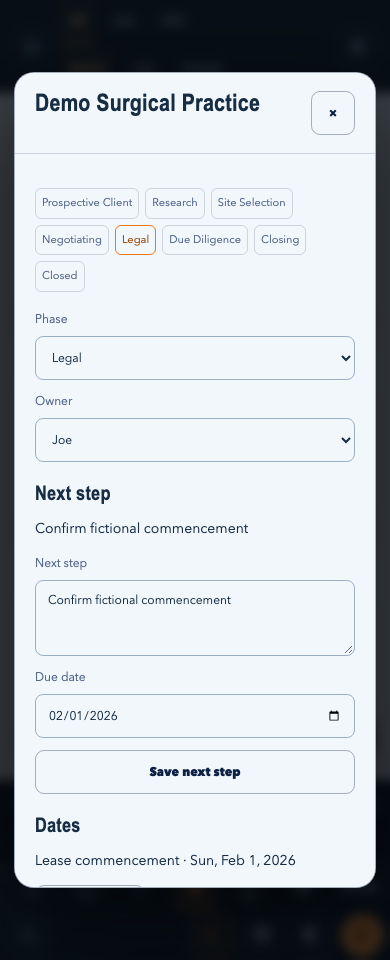
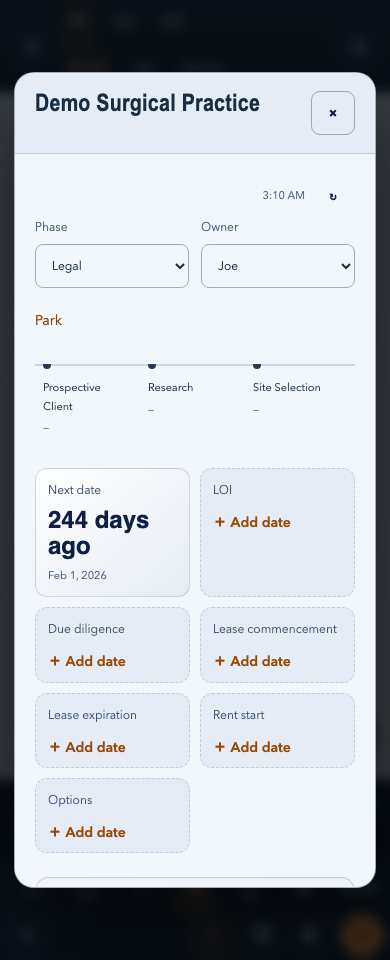
Clear refused deal date drafts and pair timeline theme surfaces

diff --git a/css/deal-timeline.css b/css/deal-timeline.css
@@ -10,7 +10,8 @@
 .phase-rail li span { border:0; padding:0; color:inherit; }
 .phase-rail time { display:block; color:var(--quiet); font-size:10px; margin-top:6px; }
 .critical-dates { display:grid; grid-template-columns:repeat(auto-fit,minmax(150px,1fr)); gap:10px; margin-bottom:24px; }
-.critical-date { min-width:0; padding:16px; border:1px solid #26354a; border-radius:12px; background:linear-gradient(140deg,#142338d9,#09121ee8); color:var(--text); display:flex; flex-direction:column; gap:8px; text-align:left; overflow-wrap:anywhere; transition:transform 180ms ease-out,border-color 180ms ease-out; }
+.critical-dates,.deal-timeline { --quiet:var(--muted); }
+.critical-date { min-width:0; padding:16px; border:1px solid var(--line); border-radius:12px; background:linear-gradient(140deg,var(--ground-2),var(--ground-0)); color:var(--text); display:flex; flex-direction:column; gap:8px; text-align:left; overflow-wrap:anywhere; transition:transform 180ms ease-out,border-color 180ms ease-out; }
 .critical-date:hover,.timeline-entry:hover { transform:translateY(-2px); border-color:#a66438; }
 .critical-date > span { color:var(--quiet); font-size:12px; }
 .critical-date strong { font-family:'Barlow Condensed',sans-serif; font-size:28px; line-height:1.1; font-weight:600; }
@@ -22,9 +23,9 @@
 .critical-date[data-state='overdue'] { animation:deadline-glow 1s ease-in-out infinite; }
 .critical-date summary { cursor:pointer; color:var(--quiet); min-height:44px; display:flex; align-items:center; font-size:12px; }
 .critical-date p { font-size:12px; }
-.add-date { cursor:pointer; border-style:dashed; background:#0b1520; }
+.add-date { cursor:pointer; border-style:dashed; background:var(--ground-0); }
 .add-date strong { font-family:inherit; font-size:14px; color:var(--orange-text); margin-top:8px; }
-.deal-timeline { border:1px solid var(--line); border-radius:14px; background:linear-gradient(120deg,#111f32c9,#060c15); padding:20px; margin-bottom:28px; min-width:0; }
+.deal-timeline { border:1px solid var(--line); border-radius:14px; background:linear-gradient(120deg,var(--ground-1),var(--ground-0)); color:var(--text); padding:20px; margin-bottom:28px; min-width:0; }
 .timeline-heading { display:flex; justify-content:space-between; align-items:center; gap:12px; }
 .timeline-heading h3 { margin:0; font-family:'Barlow Condensed',sans-serif; font-size:28px; }
 .timeline-heading select { max-width:100%; }
@@ -38,16 +39,16 @@
 .timeline-chart .timeline-count { fill:#07111f; font-size:11px; font-weight:700; }
 .timeline-chart .timeline-today-label { fill:var(--orange-text); }
 .timeline-date-links { display:flex; flex-wrap:wrap; gap:6px; margin-bottom:16px; }
-.timeline-date-links button { cursor:pointer; background:#111f30; border:1px solid var(--line); border-radius:8px; color:var(--quiet); min-height:44px; padding:8px 12px; font-size:11px; }
+.timeline-date-links button { cursor:pointer; background:var(--ground-1); border:1px solid var(--line); border-radius:8px; color:var(--quiet); min-height:44px; padding:8px 12px; font-size:11px; }
 .timeline-entries { display:grid; grid-template-columns:repeat(3,minmax(0,1fr)); gap:12px; }
-.timeline-entry { min-width:0; border:1px solid var(--line); border-radius:10px; padding:14px; background:#0c1625e8; transition:transform 180ms ease-out,border-color 180ms ease-out; }
+.timeline-entry { min-width:0; border:1px solid var(--line); border-radius:10px; padding:14px; background:var(--ground-0); transition:transform 180ms ease-out,border-color 180ms ease-out; }
 .timeline-entry-top { display:flex; flex-wrap:wrap; align-items:center; justify-content:space-between; gap:6px; }
 .timeline-entry b { font-size:11px; color:var(--orange-text); text-transform:capitalize; }
 .timeline-entry p { font-size:13px; overflow-wrap:anywhere; }
 .timeline-entry summary { min-height:44px; display:flex; align-items:center; }
 .deal-timeline :focus-visible,.critical-dates :focus-visible { outline:2px solid var(--orange); outline-offset:3px; }
 .deal-detail .full-record { margin-top:0; }
-#dealDateDialog input { width:100%; min-width:0; color:var(--text); background:#0c1625; padding:12px; border:1px solid var(--line); border-radius:8px; color-scheme:dark; }
+#dealDateDialog input { width:100%; min-width:0; color:var(--text); background:var(--ground-0); padding:12px; border:1px solid var(--line); border-radius:8px; }
 @keyframes deadline-glow { 50% { border-color:#b7693c; } }
 @media(max-width:760px) { .timeline-entries { grid-template-columns:repeat(2,minmax(0,1fr)); } }
 @media(max-width:500px) {
@@ -62,7 +63,7 @@
 }
 @media(prefers-reduced-motion:reduce) { .critical-date,.timeline-entry,.critical-date:hover,.timeline-entry:hover { transition:none; transform:none; animation:none; } }
 
-.deal-detail > header { position:sticky; top:0; z-index:2; background:#091725f5; backdrop-filter:blur(16px); }
+.deal-detail > header { position:sticky; top:0; z-index:2; background:var(--ground-0); backdrop-filter:blur(16px); }
 .detail-actions { display:flex; align-items:flex-start; justify-content:space-between; gap:18px; margin-bottom:22px; }
 .detail-actions > .detail-controls { flex:1; max-width:560px; margin:0; }
 .detail-actions .park-control { margin-top:0; }

diff --git a/js/pipeline.js b/js/pipeline.js
@@ -695,12 +695,20 @@ let contextReadSequence = 0;
 let nextDraft = null;
 const nextReads = new Set();
 const stepValues = deal => ({text:noteText(deal.next_step),date:deal.next_date || ''});
+function clearDateDraft() {
+  dateDraft = null;
+  $('dealDateDialog').close();
+  $('dealDateForm').reset();
+  $('dealDateTitle').textContent = 'Add date';
+  $('dealDateStatus').textContent = '';
+}
 function refusePanelDetail(error) {
   if (![401,403].includes(error?.status) && !['unauthorized','not_authenticated','forbidden'].includes(error?.payload?.error)) return false;
   ++panelReadSequence;
   ++contextReadSequence;
   state.panelDetail = null;
   nextDraft = null;
+  clearDateDraft();
   disposeEvidence?.(); disposeEvidence = null;
   setContextOpenVisible(false);
   $('contextDrawer').close();
@@ -908,6 +916,7 @@ async function openPanel(dealId, trigger) {
 }
 function closePanel() {
   ++panelReadSequence;
+  clearDateDraft();
   const id = state.panelReturnTo;
   disposeEvidence?.(); disposeEvidence=null;
   const url = new URL(location.href); url.searchParams.delete('deal'); history.replaceState({},'',url);
@@ -1137,13 +1146,13 @@ function wire() {
 
   $('recordPanel')?.addEventListener('cancel', (event) => { event.preventDefault(); closePanel(); });
   $('panelClose')?.addEventListener('click', closePanel);
-  $('dealDateCancel').onclick = () => { dateDraft = null; $('dealDateDialog').close(); };
-  $('dealDateDialog').addEventListener('cancel', () => { dateDraft = null; });
+  $('dealDateCancel').onclick = clearDateDraft;
+  $('dealDateDialog').addEventListener('cancel', clearDateDraft);
   $('dealDateForm').addEventListener('submit', async event => {
     event.preventDefault();
     const form = event.currentTarget, values = new FormData(form);
     const draft = dateDraft;
-    if (!draft) return;
+    if (!draft || !$('dealDateDialog').open || state.panelDeal !== draft.deal || state.panelDetail?.deal.id !== draft.deal) return;
     const {deal:id, kind} = draft;
     // Lost responses retain exactly the same request and key in the command dock.
     const args = {deal:id,kind,due_on:String(values.get('date')),source:String(values.get('evidence'))};
@@ -1151,10 +1160,10 @@ function wire() {
     const result = await runFollowUp(`critical-date:${id}:${kind}`,{verb:'add-critical-date',args,summary:'Date added'});
     if (dateDraft === draft && $('dealDateDialog').open) {
       form.querySelector('button[type="submit"]').disabled = false;
-      if (result?.status === 'ok') { dateDraft = null; $('dealDateDialog').close(); }
+      if (result?.status === 'ok') clearDateDraft();
       else $('dealDateStatus').textContent = 'Date not confirmed';
     }
-    if (result?.status === 'ok' && state.panelDeal === id) await refreshPanel();
+    if (result?.status === 'ok' && state.panelDeal === id && state.panelDetail?.deal.id === id) await refreshPanel();
   });
 
   $('receiptsOpen')?.addEventListener('click', () => {
@@ -1216,6 +1225,7 @@ function wire() {
     if (e.target.closest('[data-refresh-detail]')) refreshPanel();
     const add = e.target.closest('[data-add-date]');
     if (add) {
+      if (!state.panelDetail || state.panelDetail.deal.id !== state.panelDeal) return;
       const definition = DATE_KINDS.find(d => d.kind === add.dataset.addDate);
       $('dealDateTitle').textContent = definition.label;
       dateDraft = {deal:state.panelDeal,kind:definition.kind};
